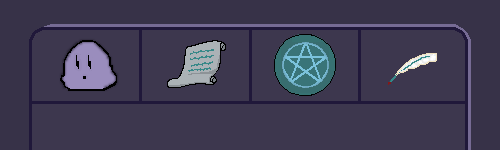
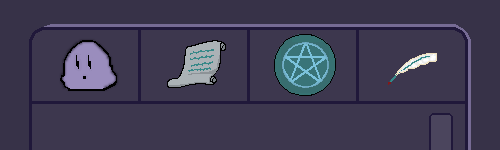
olala

diff --git a/main.py b/main.py
@@ -81,7 +81,7 @@ def on_draw():
     else:
         ui_tab_settings = pyglet.sprite.Sprite(resources.images['ui_tab_settings'], x=359, y=ui_tabs_y, batch=main_batch, group=ui_group)
 
-    ui_background_height = window.get_size()[1] - resources.images['ui_header'].height - resources.images['ui_footer'].height
+    ui_background_height = window.get_size()[1] - resources.images['ui_header'].height - resources.images['ui_footer'].height + 38
 
     ui_background = []
     for y in range(ui_background_height):
